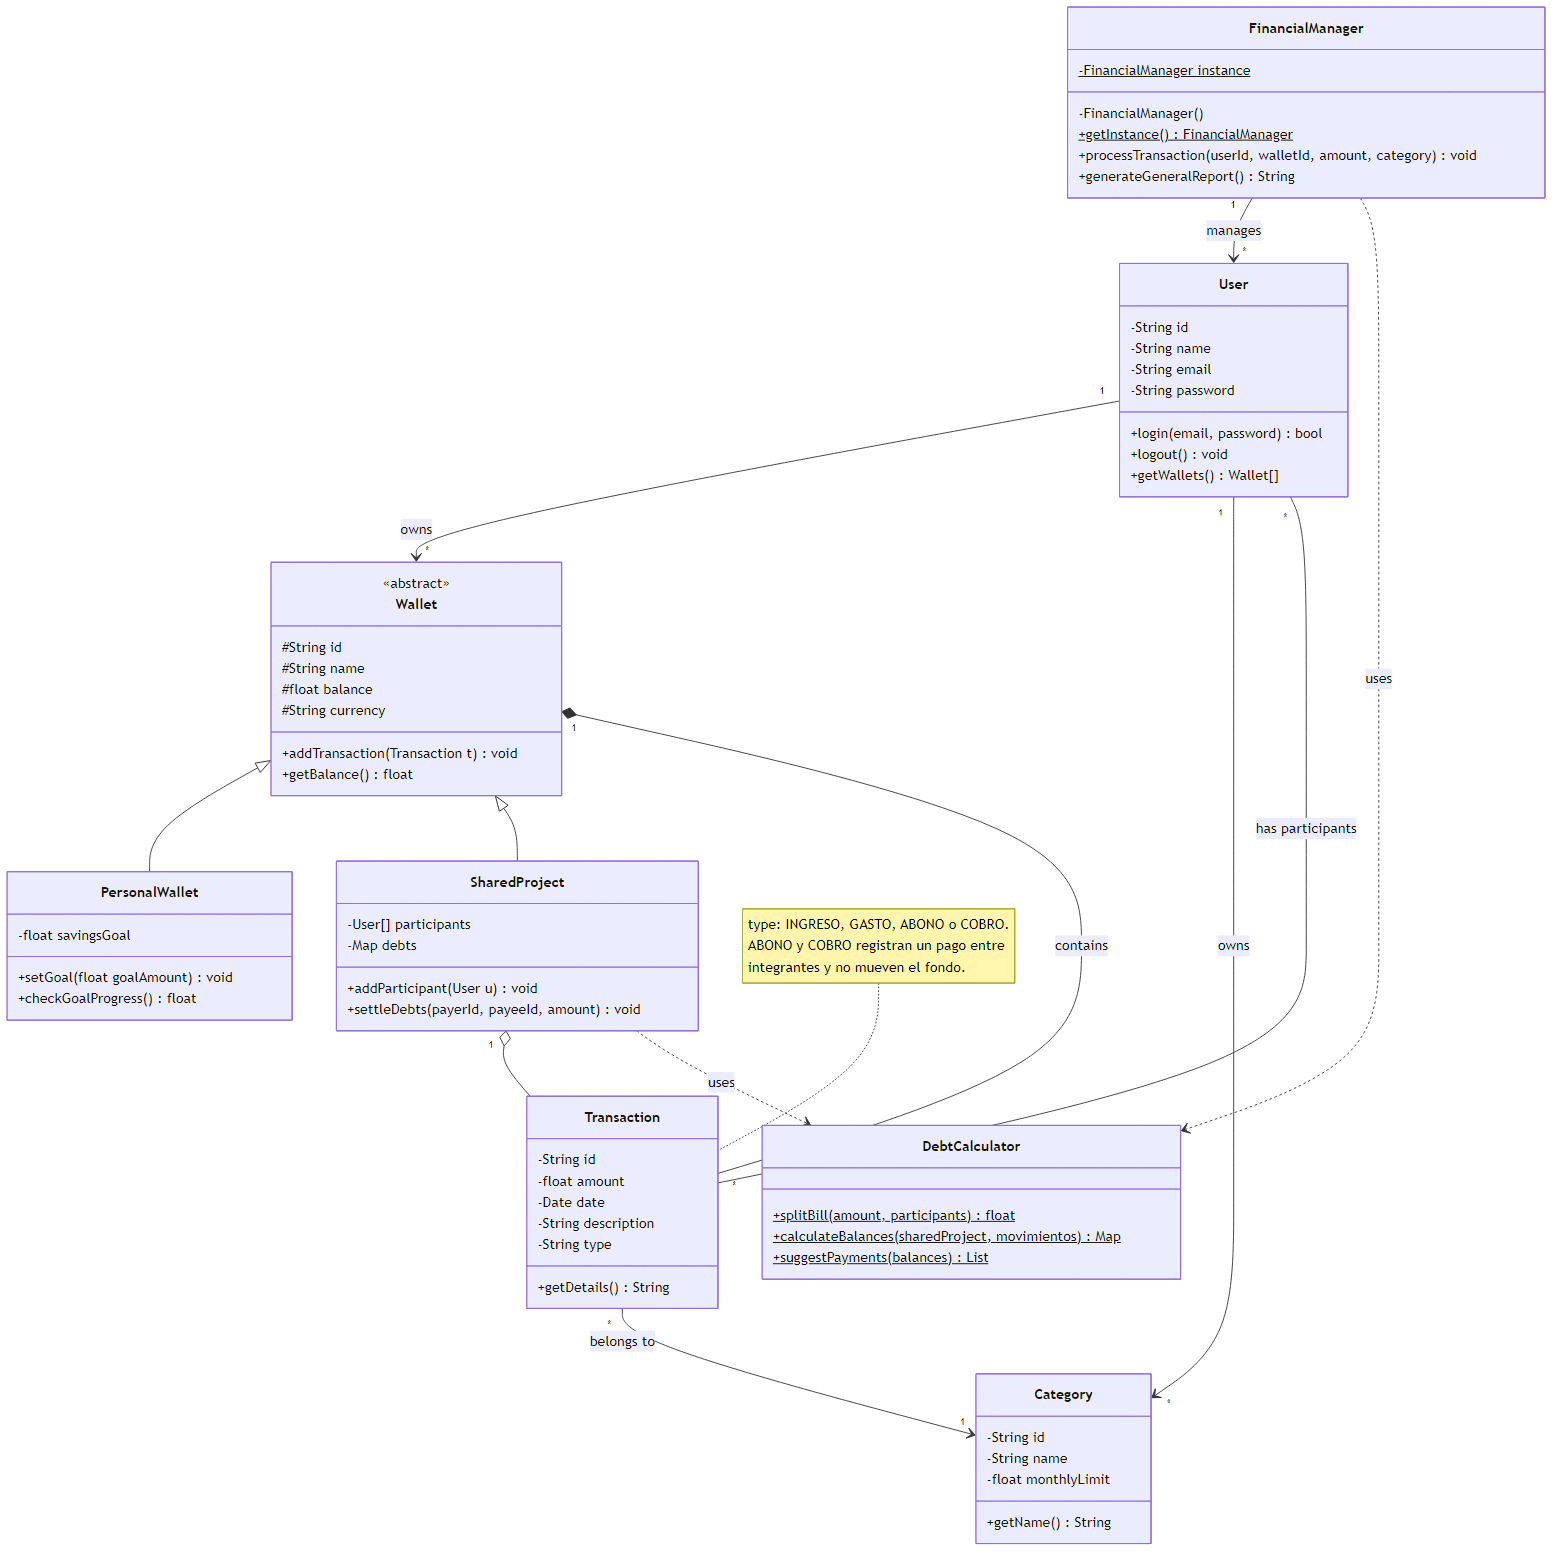
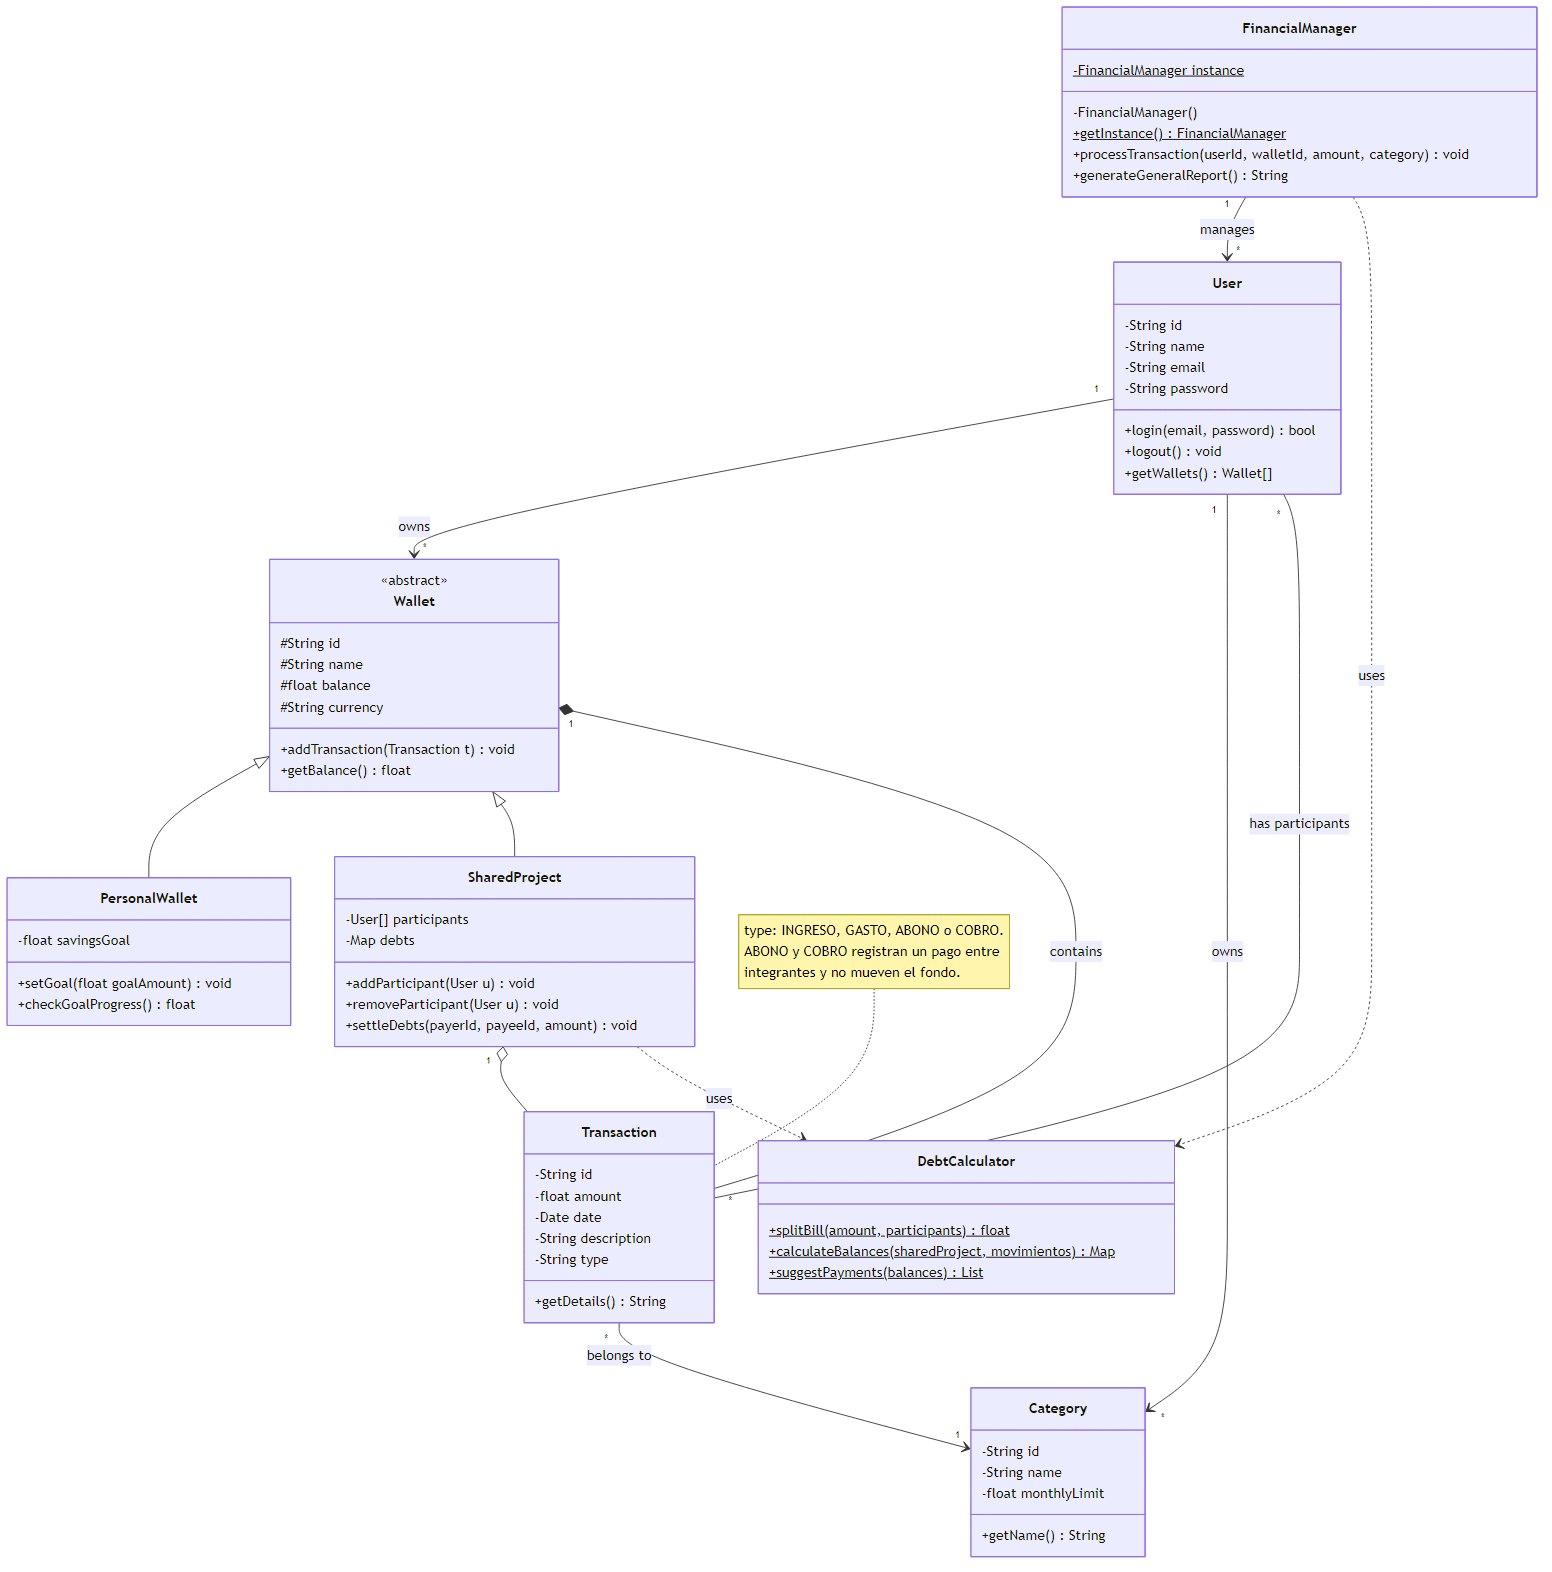
docs: documenta la eliminación de integrantes
Agrega al README la sección de eliminar integrantes y salir de un
proyecto (reglas, por qué los saldos no cambian, endpoint y Observer),
resume la regla en CLAUDE.md y regenera clases.png con removeParticipant.

diff --git a/README.md b/README.md
@@ -15,6 +15,7 @@ Proyecto académico desarrollado para la asignatura de Construcción de Software
 - [Arquitectura del sistema](#arquitectura-del-sistema)
 - [Patrón de diseño: Observer](#patrón-de-diseño-observer)
 - [Saldar deudas entre integrantes](#saldar-deudas-entre-integrantes)
+- [Eliminar integrantes y salir de un proyecto](#eliminar-integrantes-y-salir-de-un-proyecto)
 - [Diagramas de diseño (UML)](#diagramas-de-diseño-uml)
 - [Modelo de datos](#modelo-de-datos)
 - [Instalación y ejecución](#instalación-y-ejecución)
@@ -38,7 +39,7 @@ La gestión de gastos compartidos (vivienda, viajes, actividades grupales) suele
 |---|---|
 | **Autenticación y usuarios** | Registro, inicio de sesión y emisión de tokens JWT. |
 | **Billetera personal** (`PersonalWallet`) | Registro de movimientos (ingresos y gastos), meta de ahorro mensual y saldo de reserva ("colchón") que impide que el saldo quede en negativo. |
-| **Proyectos compartidos** (`SharedProject`) | Creación de grupos, incorporación de integrantes por correo electrónico, aportes al fondo común (descontados de la billetera personal de quien aporta) y registro de gastos con selección de participantes, pagados por el fondo. |
+| **Proyectos compartidos** (`SharedProject`) | Creación de grupos, incorporación de integrantes por correo electrónico, eliminación de integrantes y salida voluntaria (solo si están al día), aportes al fondo común (descontados de la billetera personal de quien aporta) y registro de gastos con selección de participantes, pagados por el fondo. |
 | **Cálculo de deudas** (`DebtCalculator`) | Determinación del saldo neto de cada integrante (si está al día, si le deben o si debe), situación de todo el proyecto, pagos directos entre integrantes para saldar deudas y sugerencia de quién debe pagarle a quién. |
 | **Categorías** | Clasificación de gastos con límite de presupuesto mensual y alerta cuando se supera. Cada categoría es privada de quien la crea. |
 
@@ -69,6 +70,7 @@ Como riesgo aceptado, el registro y la incorporación de integrantes informan si
 - **Proyectos compartidos**: crea un grupo, agrega integrantes por correo electrónico, aporta al fondo común desde tu billetera personal y registra gastos selectivos (eliges quién participa en cada uno) que paga el fondo. Si el fondo no alcanza, el gasto se rechaza.
 - **Cálculo de deudas en tiempo real**: en todo momento puedes ver si estás "en paz", te deben, o debes, sin tener que hacer la cuenta a mano.
 - **Situación del proyecto y pago de deudas**: una tabla muestra cuánto aportó cada integrante, su parte de los gastos y su saldo. Si debes, puedes pagarle directamente a quien tiene saldo a favor desde tu billetera personal, con el monto sugerido para quedar al día.
+- **Eliminar integrantes y salir de un proyecto**: el administrador puede quitar a un integrante y cualquier integrante puede salir, siempre que esté al día. Su historial se conserva y los saldos de los demás no cambian.
 - **Categorías con alerta de presupuesto**: crea tus propias categorías de gasto, define un límite mensual para cada una y recibe aviso visual cuando lo superas. Solo tú puedes verlas y usarlas.
 - **Seguridad**: autenticación con JWT y una capa de autorización que verifica, en cada petición, que el recurso solicitado pertenezca a quien hace la petición, no solo que haya iniciado sesión.
 
@@ -246,6 +248,34 @@ El pago pasa por el sujeto observable: `DebtCalculator.calculateBalances` calcul
 <p align="center">
   <img src="docs/diagramas/secuencia-pago-deuda.png" alt="Diagrama de secuencia del pago de una deuda entre integrantes" width="720">
 </p>
+
+## Eliminar integrantes y salir de un proyecto
+
+El administrador puede eliminar a un integrante, y un integrante puede salir del proyecto por su cuenta. En ambos casos la persona debe estar **al día**: saldo neto de menos de medio centavo, el mismo criterio con que la situación muestra "Al día" y con que no se permite pagar.
+
+### Reglas
+
+- Solo el administrador elimina a otros; un integrante solo puede quitarse a sí mismo (si no, 403). Quien no es integrante recibe 403.
+- El administrador no puede salir ni ser eliminado (422).
+- Si la persona debe o le deben, se rechaza con un mensaje que lo explica (422), por ejemplo: "No se puede eliminar a Beto porque tiene un saldo pendiente (debe $7.500). Primero deben saldar las deudas."
+- El historial se conserva: sus aportes, gastos y pagos siguen en el proyecto. Deja de aparecer en la situación y en "¿Quiénes participan?", y ya no puede ver el proyecto ni registrar movimientos.
+- Puede volver a ser agregado; al reingresar recupera exactamente su saldo, porque sus movimientos siguen con su id.
+
+### Por qué los saldos de los demás no cambian
+
+El saldo de cada integrante solo depende de los movimientos en que aparece, y cada gasto se divide entre su propia lista de involucrados (`involvedIdsList`), no entre los integrantes actuales. Un gasto antiguo en el que participó la persona eliminada sigue dividiéndose entre las mismas personas. El fondo es un valor guardado que no depende de la lista de integrantes. Como quien sale tiene saldo 0, la suma de los saldos sigue siendo igual al fondo.
+
+Un saldo de menos de medio centavo (por ejemplo, −0,0033 tras dividir un gasto entre tres) no se puede pagar, así que cuenta como al día. Al salir esa persona, esa fracción pasa al monto "sin asignar", igual que los aportes antiguos sin aportante.
+
+### Endpoint
+
+| Método | Ruta | Descripción |
+|---|---|---|
+| `DELETE` | `/api/projects/{id}/members/{userId}` | El administrador elimina a `userId`, o el usuario del token sale del proyecto si `userId` es el suyo. Responde 204 sin cuerpo: quien sale ya no puede ver el proyecto. |
+
+### Patrón Observer
+
+`SharedProject.removeParticipant(user)` quita a la persona de los integrantes y de los observadores (`removeObserver`), y notifica a los que quedan. El servicio valida antes los permisos y el saldo con `DebtCalculator.calculateBalances`. No se modifica ninguna transacción ni el esquema de la base de datos: solo se borra la fila de `project_participants`.
 
 ## Diagramas de diseño (UML)
 

diff --git a/CLAUDE.md b/CLAUDE.md
@@ -15,6 +15,10 @@ y saldo neto).
   paga, INGRESO en la de quien recibe). El fondo no cambia. En el proyecto quedan un `ABONO`
   (`involvedIdsList = [quien paga]`) y un `COBRO` (`[quien recibe]`), que nunca pasan por
   `recordTransaction` ni cuentan en `auditWallet`. `POST /api/transactions` solo acepta INGRESO o GASTO.
+- **Eliminar integrantes / salir** (`DELETE /api/projects/{id}/members/{userId}`, `SharedProject.removeParticipant`):
+  el admin elimina a otros y un integrante puede salir, solo si está al día (|saldo| < medio centavo).
+  El admin no puede salir ni ser eliminado. Sus transacciones se conservan; solo se borra la fila de
+  `project_participants`.
 - Saldo neto = aportes propios − parte de los gastos en que participó + pagos hechos (ABONO)
   − pagos recibidos (COBRO). Lo calcula `DebtCalculator.calculateBalances`; la suma de los
   saldos netos es igual al fondo (salvo INGRESO antiguos sin aportante, que no cuentan para nadie).
